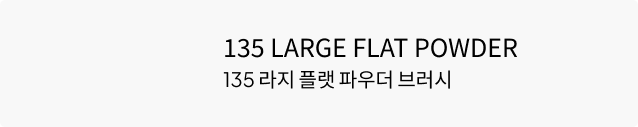
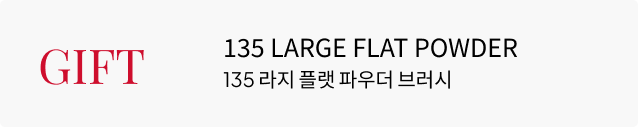
Add files via upload

Changed region(s): [[0.0596, 0.378, 0.2382, 0.685]]

diff --git a/index.html b/index.html
@@ -13,6 +13,12 @@
     <link rel="stylesheet" href="./styles/reset.css">
     <link rel="stylesheet" href="./styles/index.css">
     <script src="./script/index.js" defer></script>
+    <link rel="preconnect" href="https://fonts.googleapis.com">
+    <link rel="preconnect" href="https://fonts.gstatic.com" crossorigin>
+    <link href="https://fonts.googleapis.com/css2?family=Playfair+Display:ital,wght@0,400..900;1,400..900&display=swap" rel="stylesheet">
+    <link rel="preconnect" href="https://fonts.googleapis.com">
+    <link rel="preconnect" href="https://fonts.gstatic.com" crossorigin>
+    <link href="https://fonts.googleapis.com/css2?family=Red+Hat+Display:ital,wght@0,300..900;1,300..900&display=swap" rel="stylesheet">
 </head>
 <body>
     <!--========================================================= header =============================================================================================-->
@@ -20,13 +26,14 @@
         <header>
             <h1><a href="#"><img src="./images/mac_logo.png" alt="MAC"></a></h1>
             <nav>
-                <div class="nav_bg"></div>
-                <a href="#"><img src="./images/Benefits.png" alt="Benefits"></a>
-                <a href="#"><img src="./images/New.png" alt="new"></a>
-                <a href="#"><img src="./images/Brush.png" alt="Brush"></a>
-                <a href="#"><img src="./images/Face.png" alt="Face"></a>
-                <a href="#"><img src="./images/Artistry.png" alt="Artistry"></a>
-                <a href="#"><img src="./images/Makeup service.png" alt="Makeup service"></a>
+                <div class="nav_bg">
+                    <a href="#">Benefits</a>
+                    <a href="#">New</a>
+                    <a href="#">Brush</a>
+                    <a href="#">Face</a>
+                    <a href="#">Artistry</a>
+                    <a href="#">Makeup service</a>
+                </div>
             </nav>
             <div class="nav_icons">
                 <a href="#"><img src="./images/nav_icon.png" alt=""></a>
@@ -47,8 +54,8 @@
         <!-- ==========================================================bg2====================================================================================================== -->
         <div class="bg bg2">
             <div class="bg2_left">
-                <h1><img src="./images/bg2_studio.png" alt=""></h1>
-                <h2><img src="./images/bg2_studio_kr.png" alt=""></h2>
+                <h1>STUDIO FIX LONGWEAR<br>CUSHION FOUNDATION </h1>
+                <h2>스튜디오 픽스 롱웨어 쿠션 파운데이션 SPF 50</h2>
                 <p>₩ 73,000원</p>
                 <h3><img src="./images/gift.png" alt=""></h3>
                 <a href="#"><img src="./images/view_more.png" alt=""></a>
@@ -59,7 +66,7 @@
         </div>
         <!-- ==========================================================bg3====================================================================================================== -->
         <div class="bg3">
-            <h1><img src="./images/Best_seller.png" alt=""></h1>
+            <h1>Best seller</h1>
             <div class="best_nav">
                 <a href="#"><img src="./images/Skin.png" alt="Skin"></a>
                 <a href="#"><img src="./images/Eye.png" alt="eye"></a>
@@ -92,7 +99,7 @@
         <div class="bg .bg4">
             <h1><img src="./images/bg4.jpg" alt=""></h1>
             <div class="bg4_detail">
-                <h2><img src="./images/bg4_en.png" alt=""></h2>
+                <h2>HYPER REAL SERUMIZER™<br>SKIN BALANCING<br><span>HYDRATION SERUM</span></h2>
                 <h3>하이퍼 리얼™ 세러마이저 스킨 밸런싱 하이드레이션 세럼</h3>
                 <p>완벽한 메이크업에 대한 맥의 본질적인 고민에서 탄생한 맥 하이퍼 리얼™ 스킨케어<br>휴대하기 좋은 미니 사이즈부터 든든한 대용량 사이즈의 세럼으로 매끄럽고 탄탄한 결 피부케어</p>
                 <a><img src="./images/view_more.png" alt=""></a>
@@ -121,9 +128,9 @@
         <div class="bg7">
             <h1><img src="./images/routine.png" alt=""></h1>
             <div class="bg7_left">
-                <h2><img src="./images/bg_7 en.png" alt=""></h2>
-                <h3><img src="./images/bg7_kr.png" alt=""></h3>
-                <h4><img src="./images/bg7_mini_kr.png" alt=""></h4>
+                <h2>HYPER REAL SERUMIZER™<br>SKIN BALANCING<br>HYDRATION SERUM</h2>
+                <h3>하이퍼 리얼™ 세러마이저 스킨 밸런싱 하이드레이션 세럼</h3>
+                <h4>완벽한 메이크업에 대한 맥의 본질적인 고민에서 탄생한<br>맥 하이퍼 리얼™ 스킨케어</h4>
                 <a href="#"><img src="./images/view_more.png" alt=""></a>
                 <h5><img src="./images/bg7_line.jpg" alt=""></h5>
             </div>
@@ -143,12 +150,12 @@
                 <div class="bg8_menu2">
                     <h2><img src="./images/bg8_2.jpg" alt=""></h2>
                     <h3>첫 구매 15% 할인</h3>
-                    <a href="">체험하기</a>
+                    <a href="#">체험하기</a>
                 </div>
                 <div class="bg8_menu3">
                     <h2><img src="./images/bg8_3.jpg" alt=""></h2>
                     <h3>무료 뷰티 컨설팅</h3>
-                    <a href="">체험하기</a>
+                    <a href="#">체험하기</a>
                 </div>
             </div>
         </div>
@@ -159,8 +166,11 @@
             <h2><img src="./images/bg9_person.jpg" alt=""></h2>
             <div class="bg9_right">
                 <h3><img src="./images/bg9_cosmetics.png" alt=""></h3>
-                <h4><img src="./images/bg9_en.png" alt=""></h4>
-                <h5><img src="./images/bg9_kr.png" alt=""></h5>
+                <h4>STUDIO FIX FLUID SKIN BALANCING<br>
+                    COMPLEX LONGWEAR<br>
+                    SOFT MATTE FOUNDATION</h4>
+                <h5>스튜디오 픽스 플루이드 SPF 25/PA++ 스킨 밸런싱 콤플렉스<br>
+                    롱웨어 소프트 매트 파운데이션</h5>
                 <a href="#"><img src="./images/view_more.png" alt=""></a>
                 <h6><img src="./images/bg9_line.png" alt=""></h6>
             </div>

diff --git a/styles/index.css b/styles/index.css
@@ -1,14 +1,13 @@
 /*============================================================================== header=========================================================================================================== */
-.header_nav {background-color: red; display: flex; height: 130px; width: 1920px;} 
+.header_nav {display: flex; height: 130px; width: 1920px;} 
 .header_nav header{display: flex; align-items: center;}
-.header_nav header h1{background-color: blue;}
-.header_nav header h1 a{background-color: violet; margin-left: 90px; margin-right: 270px;}
-.header_nav header h1 a img{background-color: aqua;}
-.header_nav header nav{background-color: yellow;}
+.header_nav header h1{}
+.header_nav header h1 a{margin-left: 90px; margin-right: 270px;}
+.header_nav header h1 a img{}
+.header_nav header nav{}
 .header_nav header nav .nav_bg{}
-.header_nav header nav .nav_bg a{}
-.header_nav header nav .nav_bg a img{margin-right: 80px;}  
-.header_nav header .nav_icons{background-color: beige; margin-left: 213px;}
+.header_nav header nav .nav_bg a{margin-right: 80px;}
+.header_nav header .nav_icons{margin-left: 213px;}
 .header_nav header .nav_icons a{}
 .header_nav header .nav_icons a img{}
 /*============================================================================== bg1=========================================================================================================== */
@@ -18,13 +17,10 @@
 /*============================================================================== bg2=========================================================================================================== */
 .bg2 {}
 .bg2 .bg2_left{}
-.bg2 .bg2_left h1{}
-.bg2 .bg2_left h1 img{}
+.bg2 .bg2_left h1{font-family: "Playfair+Display", "맑은고딕",sans-serif;}
 .bg2 .bg2_left h2{}
-.bg2 .bg2_left h2 img{}
 .bg2 .bg2_left p{}
 .bg2 .bg2_left h3{}
-.bg2 .bg2_left h3 img{}
 .bg2 .bg2_left a{}
 .bg2 .bg2_left a img{}
 .bg2 .bg2_right{}
@@ -62,8 +58,7 @@
 .bg4 h1{}
 .bg4 h1 img{}
 .bg4 .bg4_detail{}
-.bg4 .bg4_detail h2{}
-.bg4 .bg4_detail h2 img{}
+.bg4 .bg4_detail h2{font-family: "Red+Hat+Display", "맑은고딕",sans-serif;}
 .bg4 .bg4_detail h3{}
 .bg4 .bg4_detail p{}
 .bg4 .bg4_detail a{}
@@ -92,12 +87,9 @@
 .bg7 h1{}
 .bg7 h1 img{}
 .bg7 .bg7_left{}
-.bg7 .bg7_left h2{}
-.bg7 .bg7_left h2 img{}
+.bg7 .bg7_left h2{font-family: "Playfair+Display" ,sans-serif;}
 .bg7 .bg7_left h3{}
-.bg7 .bg7_left h3 img{}
 .bg7 .bg7_left h4{}
-.bg7 .bg7_left h4 img{}
 .bg7 .bg7_left a{}
 .bg7 .bg7_left a img{}
 .bg7 .bg7_left h5{}
